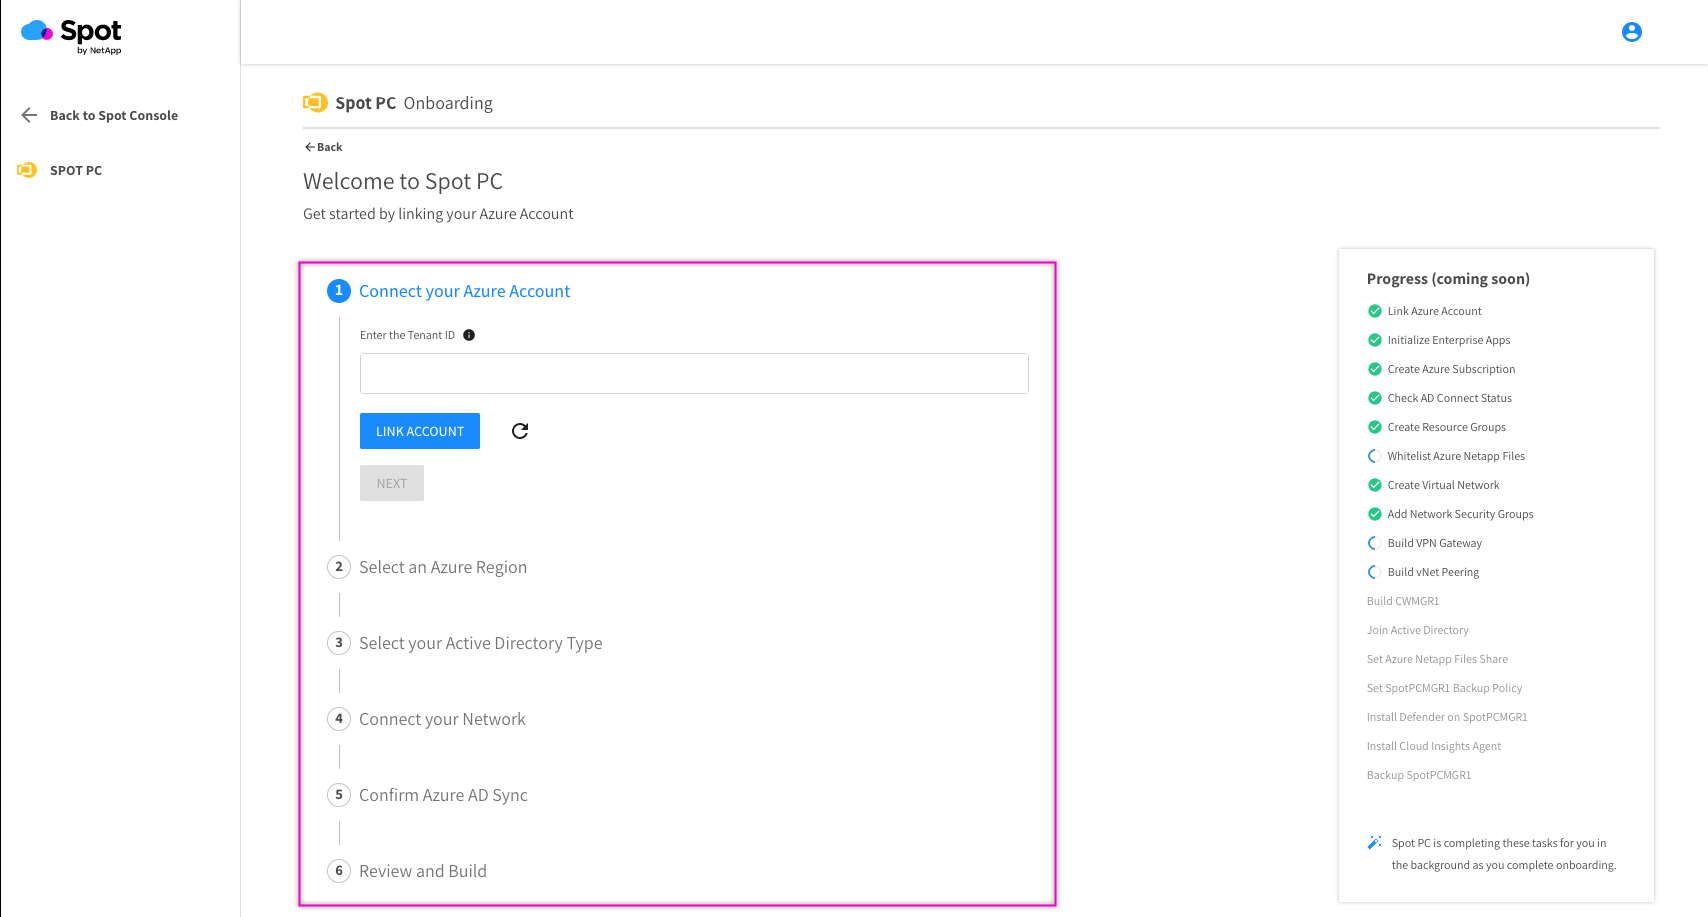
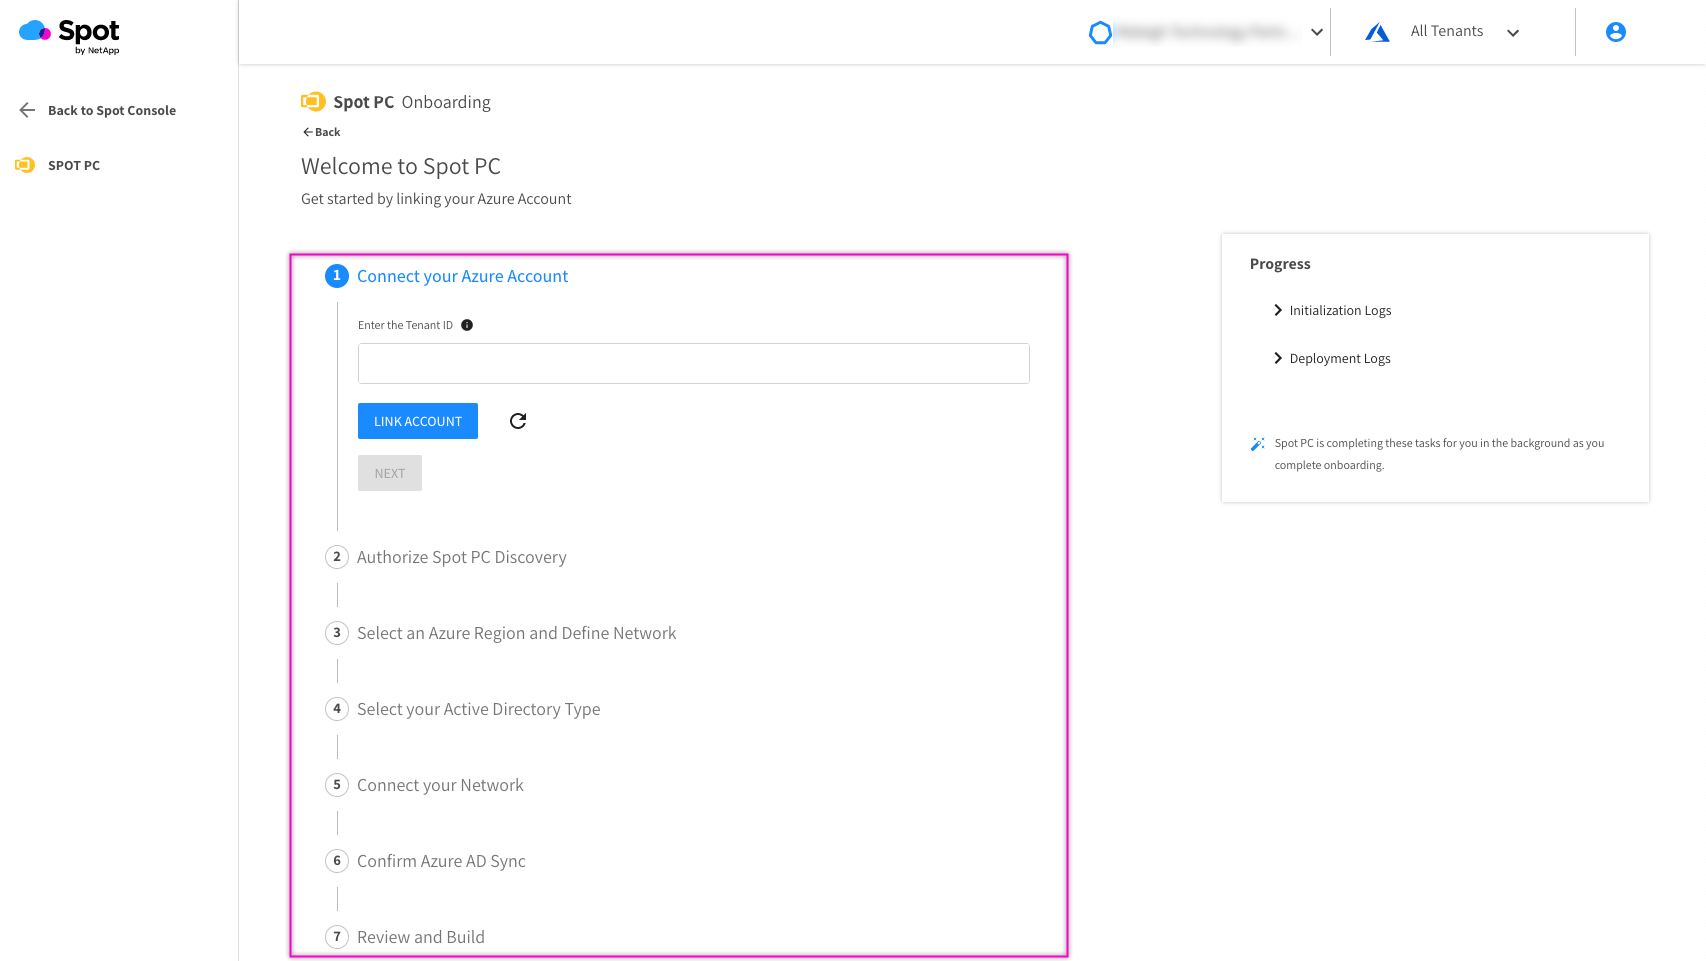
onboarding polish

diff --git a/src/docs/spot-pc/getting-started/onboarding-workflow/README.md b/src/docs/spot-pc/getting-started/onboarding-workflow/README.md
@@ -6,13 +6,13 @@ Onboarding a new Spot PC tenant is performed from within the Spot PC console.  F
 
 The Onboarding workflow can be accessed by clicking "+ Add New Tenant" from the Spot PC Dashboard.<br> <a href="https://docs.spot.io/spot-pc/_media/onboarding-workflow-01.png" target="_blank"><img src="/spot-pc/_media/onboarding-workflow-01.png" alt="Click Image for Full Size" width="500"> </a>
 
-The onboarding workflow has seven steps, each step is outlined below.<br><img src="/spot-pc/_media/onboarding-workflow-02.png" />
+The onboarding workflow has seven steps, each step is outlined below.<br> <a href="https://docs.spot.io/spot-pc/_media/onboarding-workflow-02.png" target="_blank"><img src="/spot-pc/_media/onboarding-workflow-02.png" alt="Click to Enlarge" width="500"> </a>
 
 ## Connect Your Azure Account
-Enter the Tenant ID for the Azure AD tenant where the Spot PC users are located.  This can be found in the Azure AD section of the Azure portal: https://portal.azure.com/#blade/Microsoft_AAD_IAM/ActiveDirectoryMenuBlade/Overview<br><img src="/spot-pc/_media/onboarding-workflow-04.png" width="200" />
+Enter the Tenant ID for the Azure AD tenant where the Spot PC users are located.  This can be found in the Azure AD section of the Azure portal: https://portal.azure.com/#blade/Microsoft_AAD_IAM/ActiveDirectoryMenuBlade/Overview <br> <a href="https://docs.spot.io/spot-pc/_media/onboarding-workflow-04.png" target="_blank"><img src="/spot-pc/_media/onboarding-workflow-04.png" alt="Click to Enlarge" width="500"> </a>
 
 ## Authorize Spot PC Discovery
-Spot PC uses an Azure Enterprise application to discover the existing Azure tenant's networks and to locate the AD DC (or Azure AD Domain Service).  Deploying this eEnterprise App requires an additional permissions grant by the Azure admin account.   <br><img src="/spot-pc/_media/onboarding-workflow-05.png" />
+Spot PC uses an Azure Enterprise application to discover the existing Azure tenant's networks and to locate the AD DC (or Azure AD Domain Service).  Deploying this eEnterprise App requires an additional permissions grant by the Azure admin account.   <br> <a href="https://docs.spot.io/spot-pc/_media/onboarding-workflow-05.png" target="_blank"><img src="/spot-pc/_media/onboarding-workflow-05.png" alt="Click to Enlarge" width="500"> </a>
 
 ## Select an Azure Region and Define Network
 Select an appropriate Azure Region. This [Microsoft Tool](https://azure.microsoft.com/en-us/services/virtual-desktop/assessment/) can estimate end user experienced based on region.
@@ -22,7 +22,7 @@ Not all Azure regions can support all Spot PC configurations.  Regions with the 
 In addition to end user experience, consideration should be made to locate the Spot PC environment near other Azure resources such as hosted domain controllers, existing data storage and/or line of business application services.  
 
 ### Initialization Progress
-After the region is selected, the initialization of the tenant begins.  Several resources are created by Spot PS in the Spot PC Azure subscription.  This step can take several minutes.  Progress is shown to the right under "Initialization Logs".  The next step in the wizard can not begin until this initialization process finishes.<br><img src="/spot-pc/_media/onboarding-workflow-02.png" />
+After the region is selected, the initialization of the tenant begins.  Several resources are created by Spot PS in the Spot PC Azure subscription.  This step can take several minutes.  Progress is shown to the right under "Initialization Logs".  The next step in the wizard can not begin until this initialization process finishes.<br> <a href="https://docs.spot.io/spot-pc/_media/onboarding-workflow-03.png" target="_blank"><img src="/spot-pc/_media/onboarding-workflow-03.png" alt="Click to Enlarge" width="500"> </a>
 
 ## Select your Active Directory Type
 While the users' identity must be a part of the Azure AD, each machine must also be joined to an Active Directory Domain Controller (AD DC) and Azure AD does not currently support that function.  Therefore an AD DC must be assessable from the Spot PC Azure subscription.  There are two options to fulfill this requirement.
